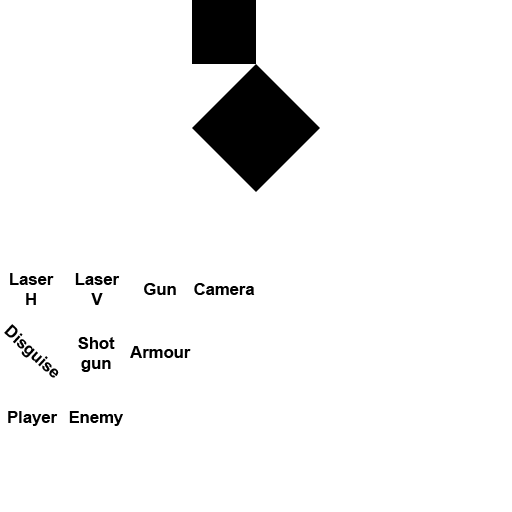
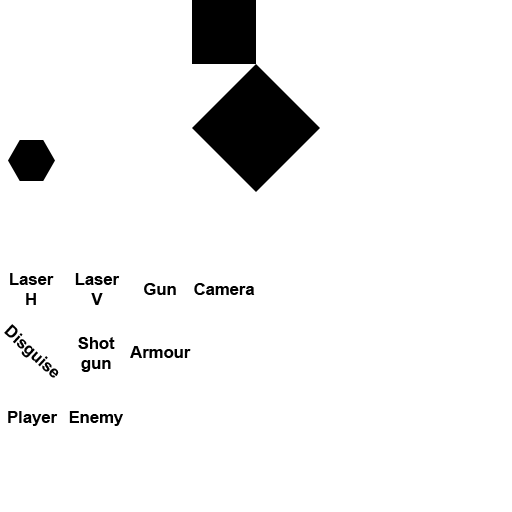
Added laser trap

Changed region(s): [[0.0, 0.25, 0.125, 0.375]]

diff --git a/src/tilemap.py b/src/tilemap.py
@@ -14,6 +14,9 @@ class TiledMap:
             "disguise": 41,
             "shotgun": 42, 
             "armour": 43,
+            # Traps
+            "laser_h": 33,
+            "laser_v": 34,
         }
 
         self.load_tilemap(path)
@@ -56,10 +59,9 @@ class TiledMap:
     def load_tiles(self):
         self.spawners = {}
         self.tiles = []
-        data = self.data
-        tilewidth = data["tilewidth"]
-        tileheight = data["tileheight"]
-        for layer in data["layers"]:
+        self.tilewidth = self.data["tilewidth"]
+        self.tileheight = self.data["tileheight"]
+        for layer in self.data["layers"]:
             if layer["type"] == "tilelayer":
                 for chunk in layer["chunks"]:
                     cw = chunk["width"]
@@ -69,15 +71,17 @@ class TiledMap:
                     tx = 0
                     ty = 0
                     for tile_id in chunk["data"]:
-                        render_x = (cx + tx) * tilewidth 
-                        render_y = (cy + ty) * tileheight
+                        render_x = (cx + tx) * self.tilewidth 
+                        render_y = (cy + ty) * self.tileheight
                         # means there is no tile
                         if tile_id != 0:
-                            rect = (render_x, render_y, tilewidth, tileheight)
+                            rect = (render_x, render_y, self.tilewidth, self.tileheight)
                             if layer["visible"]:
                                 self.tiles.append({
                                     "img": self.tileset[tile_id-1], 
-                                    "rect": rect
+                                    "rect": rect,
+                                    "tile_id": tile_id,
+                                    "layer_name": layer["name"],
                                 })
                             else:
                                 for k, v in self.spawner_tiles.items():
@@ -130,6 +134,18 @@ class TiledMap:
                             return r.overlap_v
         return all_collisions
 
+    def get_tile(self, x1, y1, target_layer_name=None, capture_all=False):
+        all_tiles = []
+        for t in self.tiles:
+            if not target_layer_name or target_layer_name == t["layer_name"]:
+                x2, y2, w2, h2 = t["rect"]
+                if (x1 == x2 and y1 == y2) or ((x1 > x2 and x1 < x2 + w2) and (y1 > y2 and y1 < y2 + h2)):
+                    if capture_all:
+                        all_tiles.append(t)
+                    else:
+                        return t
+        return all_tiles
+
     def draw(self, screen):
         for t in self.tiles:
             rect = t["rect"]
@@ -137,3 +153,6 @@ class TiledMap:
             if (rect[0] + rect[2] > self.game.camera.pos.x and rect[0] < self.game.camera.pos.x + WORLD_SIZE[0]) \
                 and (rect[1] + rect[3] > self.game.camera.pos.y and rect[1] < self.game.camera.pos.y + WORLD_SIZE[1]):
                 screen.blit(t["img"], rect)
+
+
+

diff --git a/src/trap.py b/src/trap.py
@@ -1,0 +1,70 @@
+import random, math
+import pygame as pg
+
+from scripts import *
+
+class TrapManager:
+    def __init__(self, game):
+        self.game = game
+        self.traps = []
+
+    def add(self, t):
+        self.traps.append(t)
+
+    def update(self, dt):
+        for t in self.traps:
+            t.update(dt)
+
+    def draw(self, screen):
+        for t in self.traps:
+            t.draw(screen)
+
+
+class LaserTrap:
+    def __init__(self, game, x, y, direction):
+        self.game = game
+        self.pos = pg.Vector2(x, y)
+        self.end_pos = pg.Vector2()
+        self.direction = direction
+        self.activated = False
+        self.delay = random.randint(1,3)
+        self.delay_timer = 0
+        self.duration = random.randint(1,3)
+        self.duration_timer = 0
+
+        self.get_end_pos()
+
+    def get_end_pos(self):
+        game_map = self.game.level_manager.current_map()
+        tw = game_map.tilewidth
+        th = game_map.tileheight
+        dx = 0
+        dy = 0
+        for i in range(32):
+            if self.direction == "horizontal":
+                dx += tw
+            else:
+                dy += th
+            tile = game_map.get_tile(self.pos.x+dx, self.pos.y+dy, "Tile Layer 3") or game_map.get_tile(self.pos.x-dx, self.pos.y-dy, "Tile Layer 3")
+            if tile and tile["tile_id"] == 17:
+                self.pos = pg.Vector2(*center(*self.pos, tw, th))
+                self.end_pos = pg.Vector2(*center(*tile["rect"]))
+                break
+
+    def update(self, dt):
+        if self.activated:
+            self.duration_timer -= dt
+            if self.duration_timer < 0:
+                self.activated = False
+                self.duration_timer = self.duration
+        else:
+            self.delay_timer -= dt
+            if self.delay_timer < 0:
+                self.activated = True
+                self.delay_timer = self.delay
+
+    def draw(self, screen):
+        if self.activated:
+            pg.draw.line(screen, (0,0,0), self.pos, self.end_pos, 3)
+
+

diff --git a/src/main.py b/src/main.py
@@ -9,6 +9,7 @@ import player
 import enemy
 import particle
 import powerup
+import trap
 from settings import *
 
 pg.init()
@@ -32,6 +33,7 @@ class GameManager:
         self.enemy_manager = enemy.EnemyManager(self)
         self.particle_manager = particle.ParticleManager(self)
         self.powerup_manager = powerup.PowerUpManager(self)
+        self.trap_manager = trap.TrapManager(self)
 
         # Load level
         self.level_manager.load_level(0)
@@ -59,6 +61,7 @@ class GameManager:
             self.enemy_manager.update(dt)
             self.particle_manager.update(dt)
             self.powerup_manager.update(dt)
+            self.trap_manager.update(dt)
         self.prev_mode = MODE
 
     def draw(self):
@@ -70,6 +73,7 @@ class GameManager:
             self.player.draw(self.screen)
             self.enemy_manager.draw(self.screen)
             self.particle_manager.draw(self.screen)
+            self.trap_manager.draw(self.screen)
 
             # Top layers
             self.level_manager.draw_lockdown_filter(self.screen)

diff --git a/src/level.py b/src/level.py
@@ -4,6 +4,7 @@ import pygame as pg
 import tilemap
 import enemy
 import powerup
+import trap
 from settings import *
 
 class LevelManager:
@@ -41,6 +42,16 @@ class LevelManager:
         points = spawners["shotgun"]
         for p in points:
             self.game.powerup_manager.add(powerup.ShotgunPowerUp(self.game, p[0], p[1]))
+
+        # Traps
+        # Horizontal and vertical lasers
+        points = spawners["laser_h"]
+        for p in points:
+            self.game.trap_manager.add(trap.LaserTrap(self.game, p[0], p[1], "horizontal"))
+
+        points = spawners["laser_v"]
+        for p in points:
+            self.game.trap_manager.add(trap.LaserTrap(self.game, p[0], p[1], "vertical"))
 
     def update(self, dt):
         if self.lockdown:
